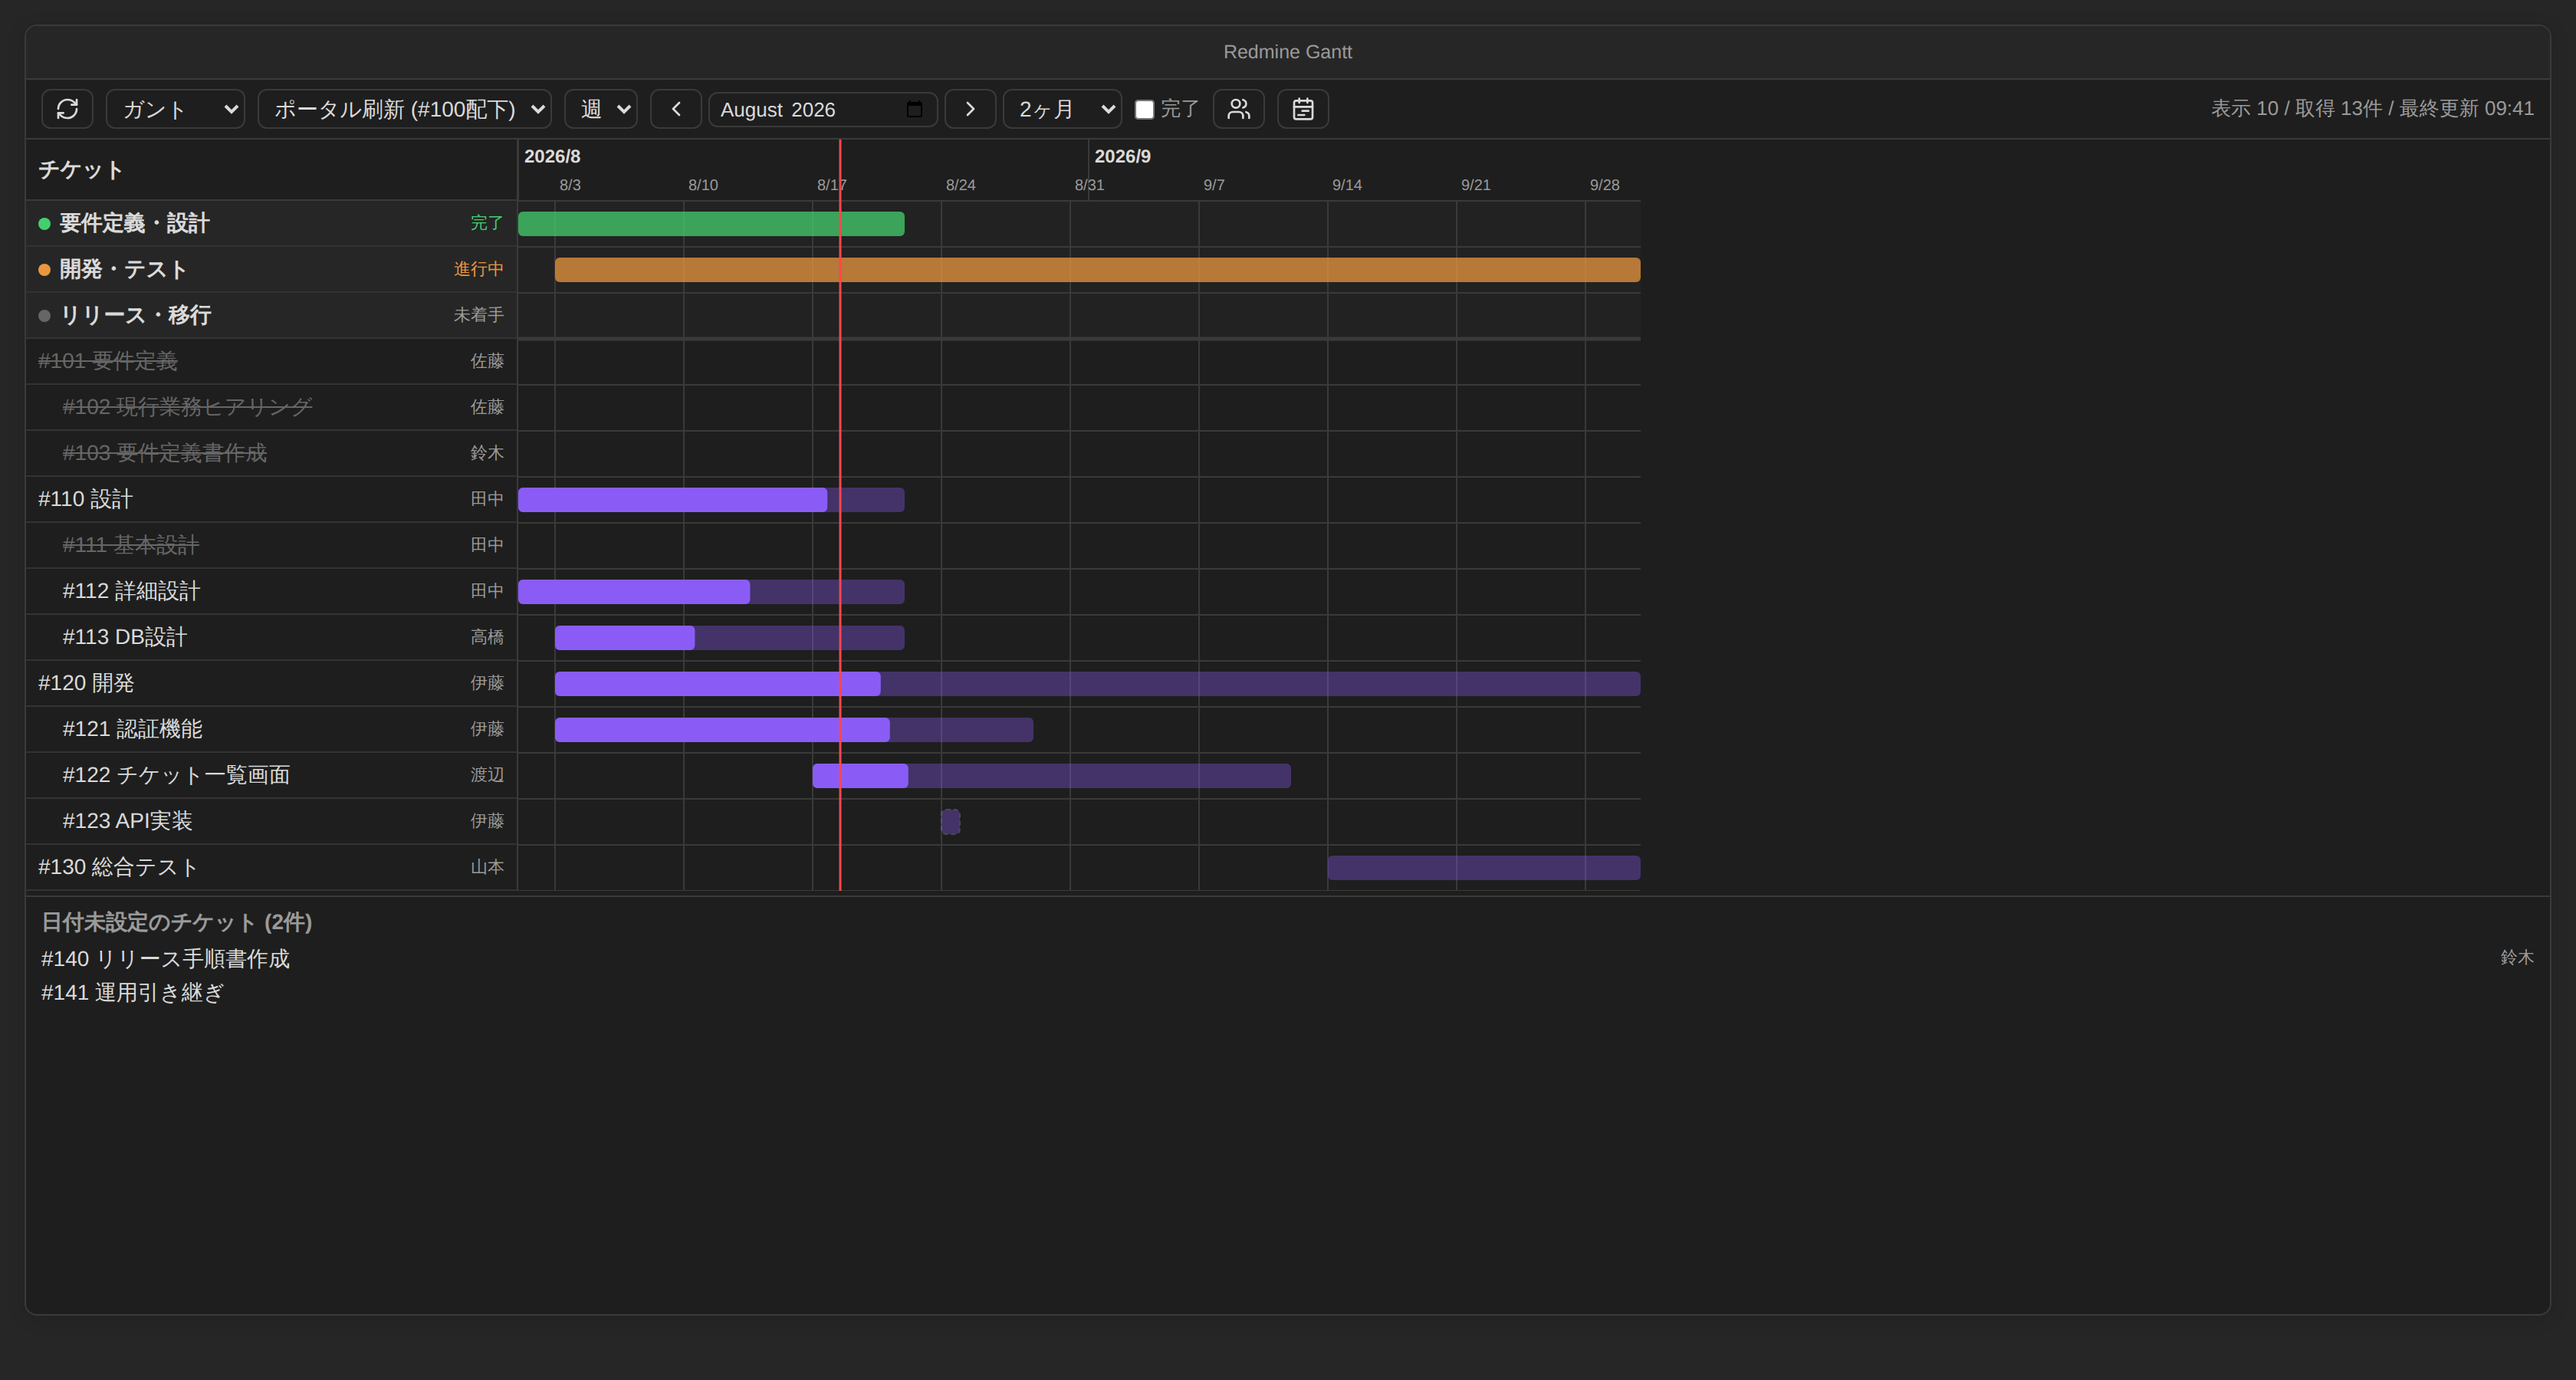
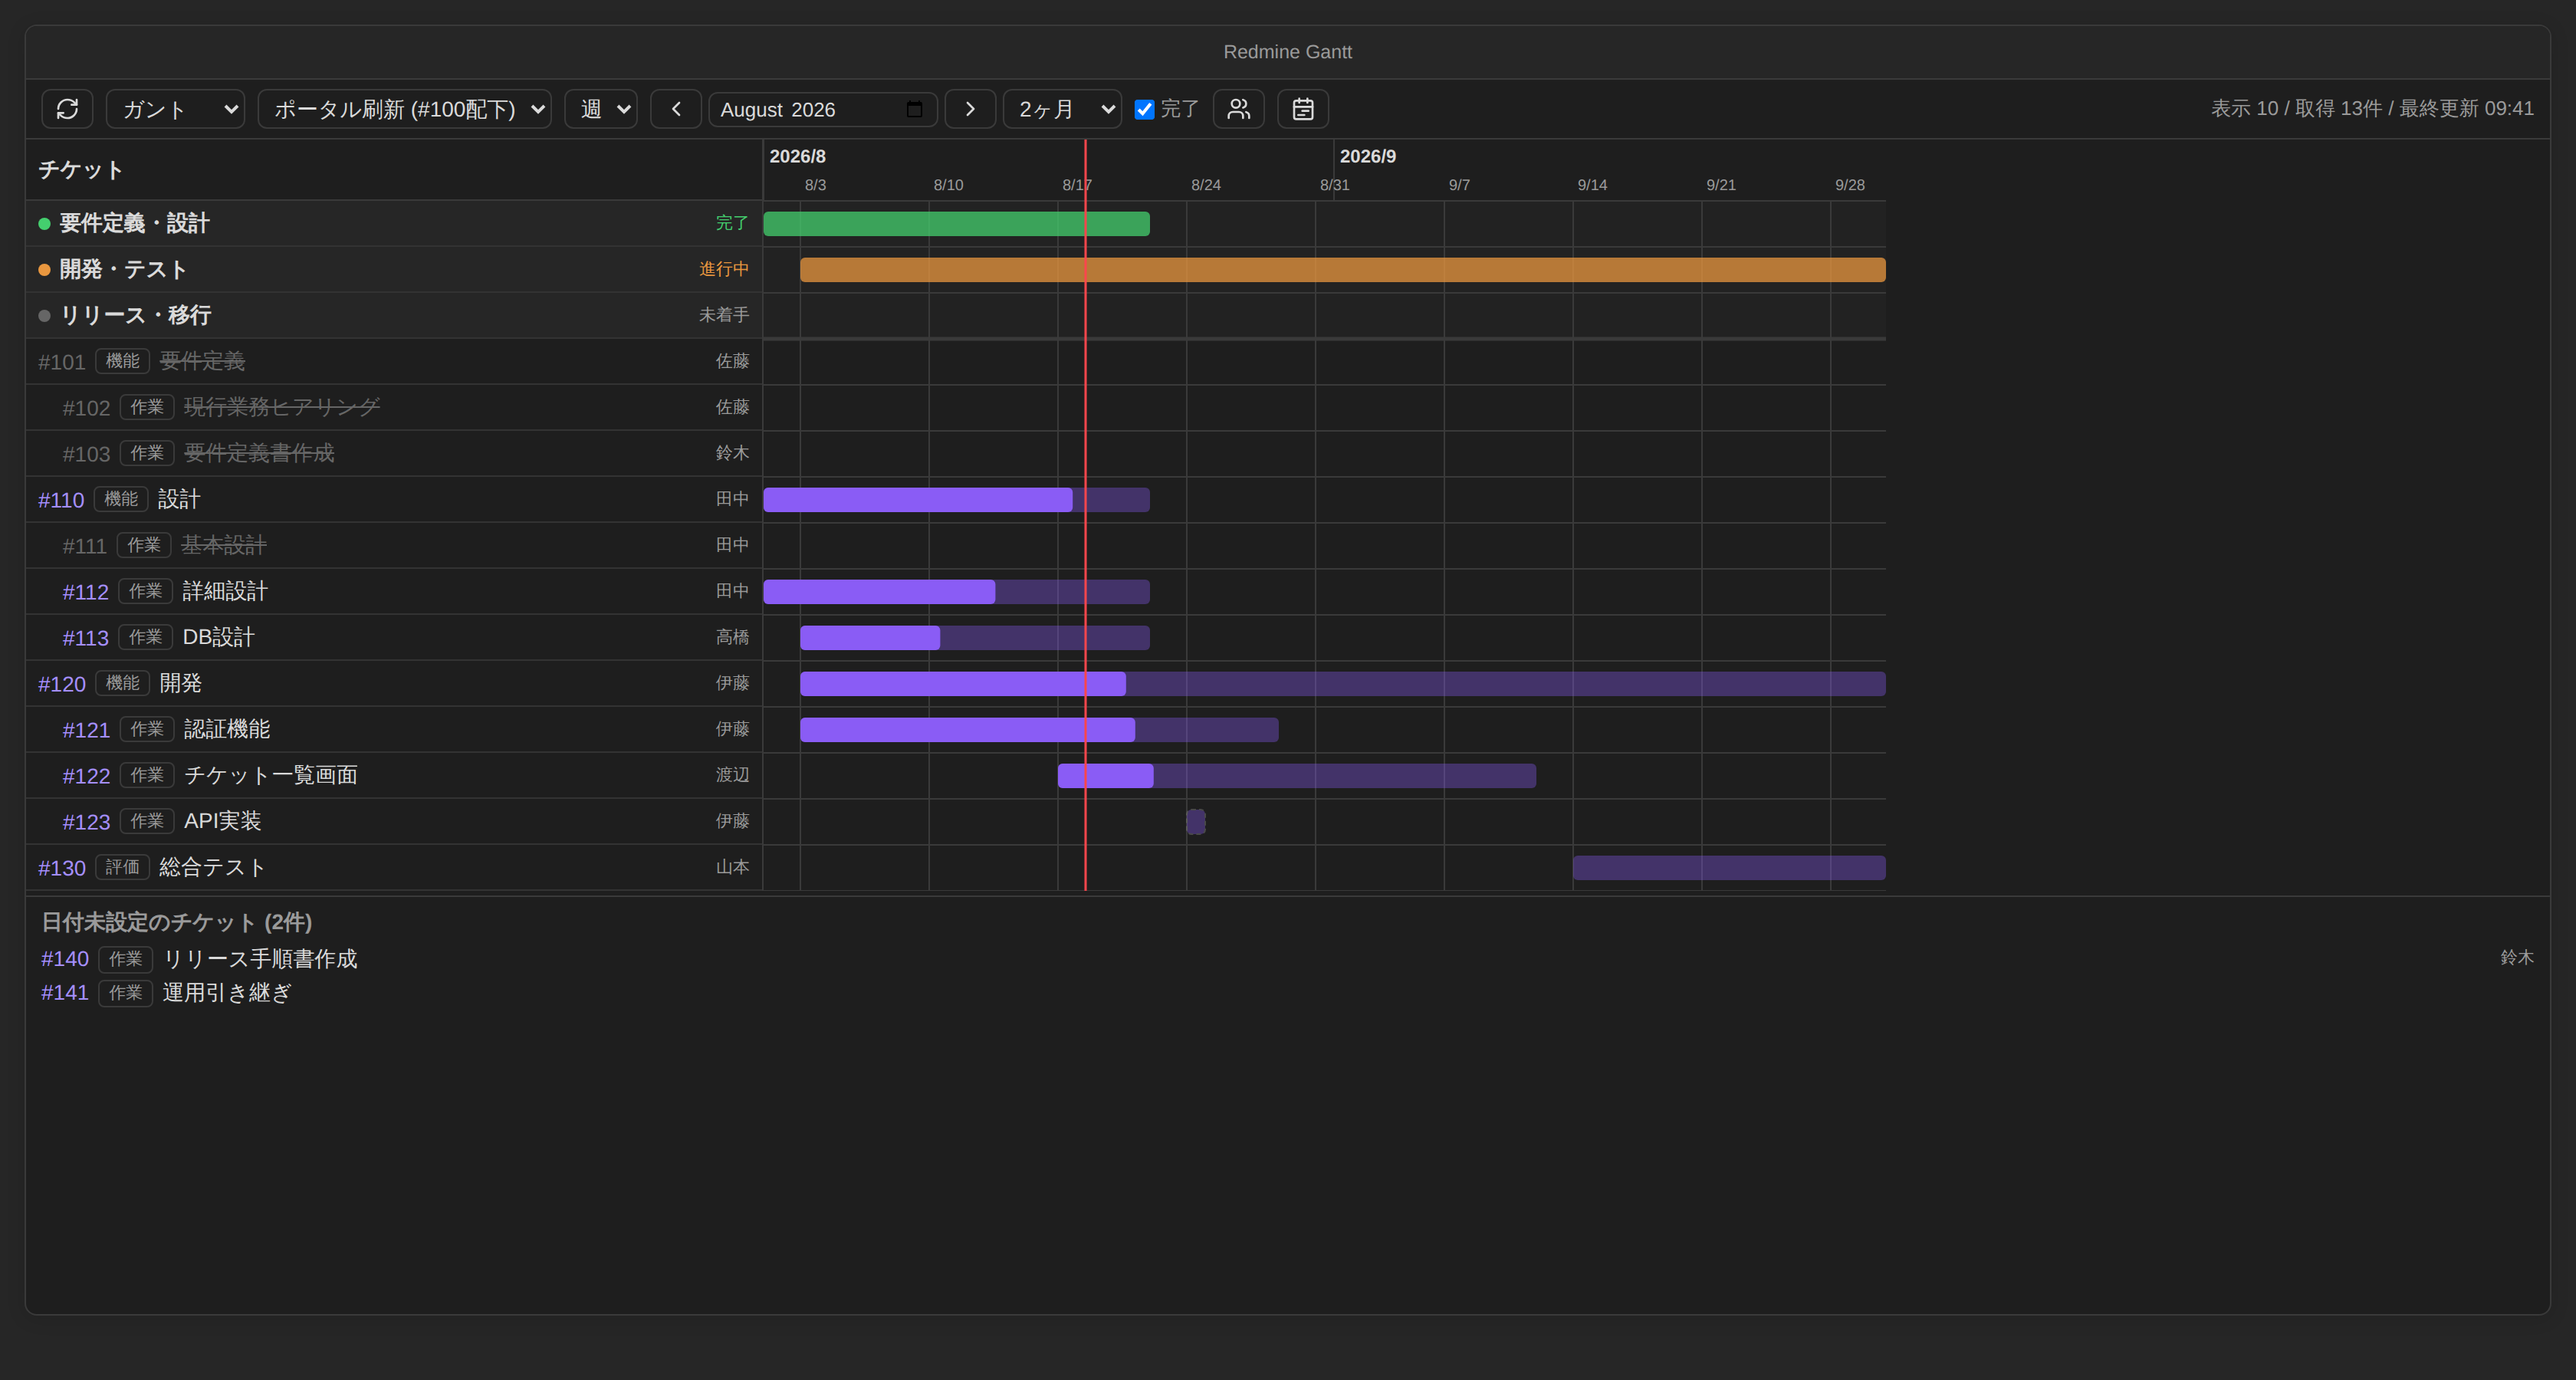
ガント左ペインの改善: 幅拡大+ドラッグ調整、トラッカー表示、チケット番号のリンク表示
- 左ペイン(チケット一覧)の既定幅を320px→480pxに拡大し、右端の境界を
  ドラッグして自由に調整できるようにした(最小200px)
- 左ペイン各行と日付未設定一覧にトラッカーチップを表示
- チケット番号をアクセントカラーのリンク表示に変更(ホバーで下線)。
  ガント左ペイン・日付未設定一覧・テーブルの#列すべてに適用
- 画面イメージを更新、main.jsを再ビルド

Claude-Session: https://claude.ai/code/session_0118WAWEAhUn2qJokaWLCuZh

diff --git a/main.js b/main.js
@@ -583,7 +583,8 @@ function weekendBands(range, scale) {
 var ROW_HEIGHT = 30;
 var HEADER_HEIGHT = 40;
 var BAR_PADDING = 7;
-var LEFT_WIDTH = 320;
+var DEFAULT_LEFT_WIDTH = 480;
+var MIN_LEFT_WIDTH = 200;
 var INDENT = 16;
 var SVG_NS = "http://www.w3.org/2000/svg";
 function svg(tag, attrs = {}) {
@@ -602,6 +603,7 @@ function clipSpan(start, end, range) {
   };
 }
 function renderGantt(container, model, plans, scale, range, opts) {
+  var _a;
   container.empty();
   if (model.tasks.length === 0 && model.undated.length === 0 && plans.length === 0) {
     container.createDiv({ cls: "rg-empty", text: "\u8868\u793A\u3067\u304D\u308B\u30C1\u30B1\u30C3\u30C8\u304C\u3042\u308A\u307E\u305B\u3093\u3002" });
@@ -614,10 +616,30 @@ function renderGantt(container, model, plans, scale, range, opts) {
   const chartHeight = taskTop + model.tasks.length * ROW_HEIGHT;
   const body = container.createDiv({ cls: "rg-body" });
   const left = body.createDiv({ cls: "rg-left" });
-  left.style.width = `${LEFT_WIDTH}px`;
+  left.style.width = `${(_a = opts.leftWidth) != null ? _a : DEFAULT_LEFT_WIDTH}px`;
   const leftHeader = left.createDiv({ cls: "rg-left-header" });
   leftHeader.style.height = `${HEADER_HEIGHT}px`;
   leftHeader.setText("\u30C1\u30B1\u30C3\u30C8");
+  const resizer = left.createDiv({ cls: "rg-left-resizer" });
+  resizer.addEventListener("mousedown", (e) => {
+    e.preventDefault();
+    const startX = e.clientX;
+    const startWidth = left.getBoundingClientRect().width;
+    const onMove = (ev) => {
+      var _a2;
+      const width = Math.max(MIN_LEFT_WIDTH, startWidth + ev.clientX - startX);
+      left.style.width = `${width}px`;
+      (_a2 = opts.onLeftWidthChange) == null ? void 0 : _a2.call(opts, width);
+    };
+    const onUp = () => {
+      document.removeEventListener("mousemove", onMove);
+      document.removeEventListener("mouseup", onUp);
+      document.body.removeClass("rg-resizing");
+    };
+    document.body.addClass("rg-resizing");
+    document.addEventListener("mousemove", onMove);
+    document.addEventListener("mouseup", onUp);
+  });
   for (const plan of plans) {
     const row = left.createDiv({ cls: "rg-left-row rg-plan-row" });
     row.style.height = `${ROW_HEIGHT}px`;
@@ -633,9 +655,15 @@ function renderGantt(container, model, plans, scale, range, opts) {
     const row = left.createDiv({ cls: "rg-left-row" });
     row.style.height = `${ROW_HEIGHT}px`;
     row.style.paddingLeft = `${8 + task.depth * INDENT}px`;
+    row.createEl("a", {
+      cls: "rg-id-link",
+      text: `#${task.id}`,
+      href: opts.issueUrl(task.id)
+    });
+    row.createSpan({ cls: "rg-tracker", text: task.tracker });
     const link = row.createEl("a", {
       cls: "rg-issue-link",
-      text: `#${task.id} ${task.subject}`,
+      text: task.subject,
       href: opts.issueUrl(task.id)
     });
     link.setAttr("title", taskTooltip(task));
@@ -785,8 +813,14 @@ function renderGantt(container, model, plans, scale, range, opts) {
     for (const task of model.undated) {
       const row = undated.createDiv({ cls: "rg-undated-row" });
       row.createEl("a", {
+        cls: "rg-id-link",
+        text: `#${task.id}`,
+        href: opts.issueUrl(task.id)
+      });
+      row.createSpan({ cls: "rg-tracker", text: task.tracker });
+      row.createEl("a", {
         cls: "rg-issue-link",
-        text: `#${task.id} ${task.subject}`,
+        text: task.subject,
         href: opts.issueUrl(task.id)
       });
       if (task.assignee)
@@ -973,6 +1007,7 @@ var GanttView = class extends import_obsidian4.ItemView {
     this.showClosed = false;
     this.selectedAssignees = /* @__PURE__ */ new Set();
     this.tableWidths = defaultTableWidths();
+    this.ganttLeftWidth = DEFAULT_LEFT_WIDTH;
     this.rangeMonths = 2;
     this.plugin = plugin;
     this.scale = plugin.settings.defaultScale;
@@ -1304,7 +1339,11 @@ var GanttView = class extends import_obsidian4.ItemView {
     const client = new RedmineClient(this.plugin.settings);
     const opts = {
       issueUrl: (id) => client.issueUrl(id),
-      assigneeColor: (assignee) => this.assigneeColor(assignee)
+      assigneeColor: (assignee) => this.assigneeColor(assignee),
+      leftWidth: this.ganttLeftWidth,
+      onLeftWidthChange: (width) => {
+        this.ganttLeftWidth = width;
+      }
     };
     if (this.plugin.settings.viewMode === "table") {
       renderTable(this.chartEl, model, { ...opts, widths: this.tableWidths });

diff --git a/src/gantt/renderer.ts b/src/gantt/renderer.ts
@@ -11,7 +11,8 @@ import {
 const ROW_HEIGHT = 30;
 const HEADER_HEIGHT = 40;
 const BAR_PADDING = 7;
-const LEFT_WIDTH = 320;
+export const DEFAULT_LEFT_WIDTH = 480;
+const MIN_LEFT_WIDTH = 200;
 const INDENT = 16;
 
 const SVG_NS = "http://www.w3.org/2000/svg";
@@ -39,6 +40,10 @@ export interface RenderOptions {
 	issueUrl: (id: number) => string;
 	/** 担当者絞り込みモード時の色。対象外・モード無効時は null */
 	assigneeColor: (assignee: string) => string | null;
+	/** ガント左ペイン(チケット一覧)の幅(px) */
+	leftWidth?: number;
+	/** 左ペイン幅をドラッグで変更したときに呼ばれる(呼び出し側で保持する) */
+	onLeftWidthChange?: (width: number) => void;
 }
 
 /** 表示範囲でバー期間を切り詰める。範囲外なら null */
@@ -79,10 +84,31 @@ export function renderGantt(
 
 	// ---- 左ペイン: 全体予定+チケット一覧(横スクロール時も固定) ----
 	const left = body.createDiv({ cls: "rg-left" });
-	left.style.width = `${LEFT_WIDTH}px`;
+	left.style.width = `${opts.leftWidth ?? DEFAULT_LEFT_WIDTH}px`;
 	const leftHeader = left.createDiv({ cls: "rg-left-header" });
 	leftHeader.style.height = `${HEADER_HEIGHT}px`;
 	leftHeader.setText("チケット");
+
+	// 左ペイン幅のドラッグリサイズ
+	const resizer = left.createDiv({ cls: "rg-left-resizer" });
+	resizer.addEventListener("mousedown", (e: MouseEvent) => {
+		e.preventDefault();
+		const startX = e.clientX;
+		const startWidth = left.getBoundingClientRect().width;
+		const onMove = (ev: MouseEvent) => {
+			const width = Math.max(MIN_LEFT_WIDTH, startWidth + ev.clientX - startX);
+			left.style.width = `${width}px`;
+			opts.onLeftWidthChange?.(width);
+		};
+		const onUp = () => {
+			document.removeEventListener("mousemove", onMove);
+			document.removeEventListener("mouseup", onUp);
+			document.body.removeClass("rg-resizing");
+		};
+		document.body.addClass("rg-resizing");
+		document.addEventListener("mousemove", onMove);
+		document.addEventListener("mouseup", onUp);
+	});
 
 	for (const plan of plans) {
 		const row = left.createDiv({ cls: "rg-left-row rg-plan-row" });
@@ -100,9 +126,15 @@ export function renderGantt(
 		const row = left.createDiv({ cls: "rg-left-row" });
 		row.style.height = `${ROW_HEIGHT}px`;
 		row.style.paddingLeft = `${8 + task.depth * INDENT}px`;
+		row.createEl("a", {
+			cls: "rg-id-link",
+			text: `#${task.id}`,
+			href: opts.issueUrl(task.id),
+		});
+		row.createSpan({ cls: "rg-tracker", text: task.tracker });
 		const link = row.createEl("a", {
 			cls: "rg-issue-link",
-			text: `#${task.id} ${task.subject}`,
+			text: task.subject,
 			href: opts.issueUrl(task.id),
 		});
 		link.setAttr("title", taskTooltip(task));
@@ -275,8 +307,14 @@ export function renderGantt(
 		for (const task of model.undated) {
 			const row = undated.createDiv({ cls: "rg-undated-row" });
 			row.createEl("a", {
+				cls: "rg-id-link",
+				text: `#${task.id}`,
+				href: opts.issueUrl(task.id),
+			});
+			row.createSpan({ cls: "rg-tracker", text: task.tracker });
+			row.createEl("a", {
 				cls: "rg-issue-link",
-				text: `#${task.id} ${task.subject}`,
+				text: task.subject,
 				href: opts.issueUrl(task.id),
 			});
 			if (task.assignee) row.createSpan({ cls: "rg-assignee", text: task.assignee });

diff --git a/src/gantt/GanttView.ts b/src/gantt/GanttView.ts
@@ -5,7 +5,7 @@ import { buildGanttModel, GanttModel } from "../redmine/mapper";
 import type { RedmineIssue } from "../redmine/types";
 import type { GanttFilter, GanttScale, PlanItem, ViewMode } from "../settings";
 import { PlanModal } from "../plan/PlanModal";
-import { PlanRow, renderGantt } from "./renderer";
+import { DEFAULT_LEFT_WIDTH, PlanRow, renderGantt } from "./renderer";
 import { TimeRange, monthRange } from "./scale";
 import { defaultTableWidths, renderTable } from "./table";
 
@@ -52,6 +52,7 @@ export class GanttView extends ItemView {
 	private showClosed = false;
 	private selectedAssignees = new Set<string>();
 	private tableWidths: number[] = defaultTableWidths();
+	private ganttLeftWidth = DEFAULT_LEFT_WIDTH;
 
 	// ガントの表示期間(既定: 当月から2ヶ月)
 	private rangeYear: number;
@@ -418,6 +419,10 @@ export class GanttView extends ItemView {
 		const opts = {
 			issueUrl: (id: number) => client.issueUrl(id),
 			assigneeColor: (assignee: string) => this.assigneeColor(assignee),
+			leftWidth: this.ganttLeftWidth,
+			onLeftWidthChange: (width: number) => {
+				this.ganttLeftWidth = width;
+			},
 		};
 		if (this.plugin.settings.viewMode === "table") {
 			renderTable(this.chartEl, model, { ...opts, widths: this.tableWidths });

diff --git a/styles.css b/styles.css
@@ -92,6 +92,43 @@
 	text-decoration: line-through;
 }
 
+/* チケット番号のリンク表示 */
+.rg-id-link {
+	flex: 0 0 auto;
+	color: var(--text-accent);
+	text-decoration: none;
+	font-variant-numeric: tabular-nums;
+}
+
+.rg-id-link:hover {
+	text-decoration: underline;
+}
+
+.rg-row-closed .rg-id-link {
+	color: var(--text-faint);
+}
+
+.rg-left-row .rg-tracker,
+.rg-undated-row .rg-tracker {
+	flex: 0 0 auto;
+}
+
+/* 左ペイン幅のドラッグリサイズ */
+.rg-left-resizer {
+	position: absolute;
+	top: 0;
+	right: -4px;
+	width: 8px;
+	height: 100%;
+	cursor: col-resize;
+	z-index: 3;
+}
+
+.rg-left-resizer:hover {
+	background: var(--interactive-accent);
+	opacity: 0.4;
+}
+
 .rg-assignee {
 	flex: 0 0 auto;
 	margin-left: auto;
@@ -409,7 +446,16 @@
 }
 
 .rg-table .rg-td-id .rg-issue-link {
-	color: var(--text-muted);
+	color: var(--text-accent);
+	font-variant-numeric: tabular-nums;
+}
+
+.rg-table .rg-td-id .rg-issue-link:hover {
+	text-decoration: underline;
+}
+
+.rg-table .rg-row-closed .rg-td-id .rg-issue-link {
+	color: var(--text-faint);
 }
 
 .rg-table .rg-issue-link:hover {
